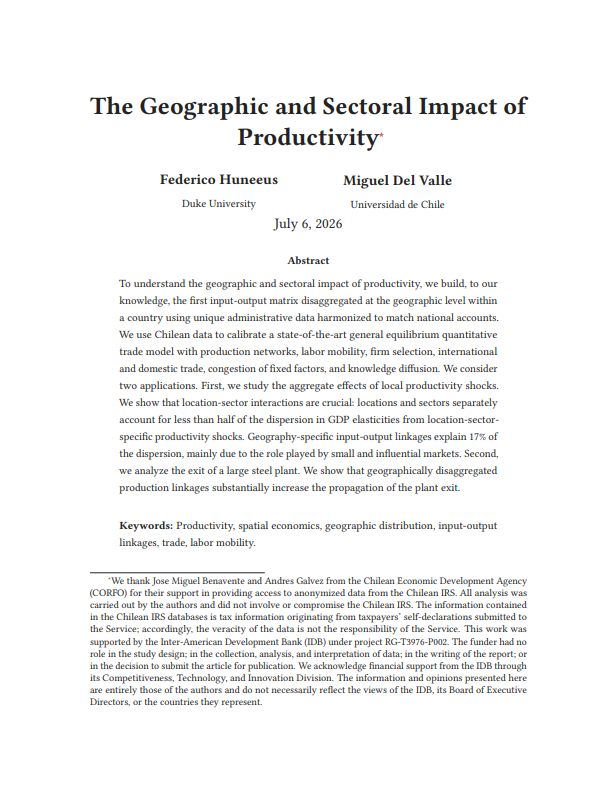
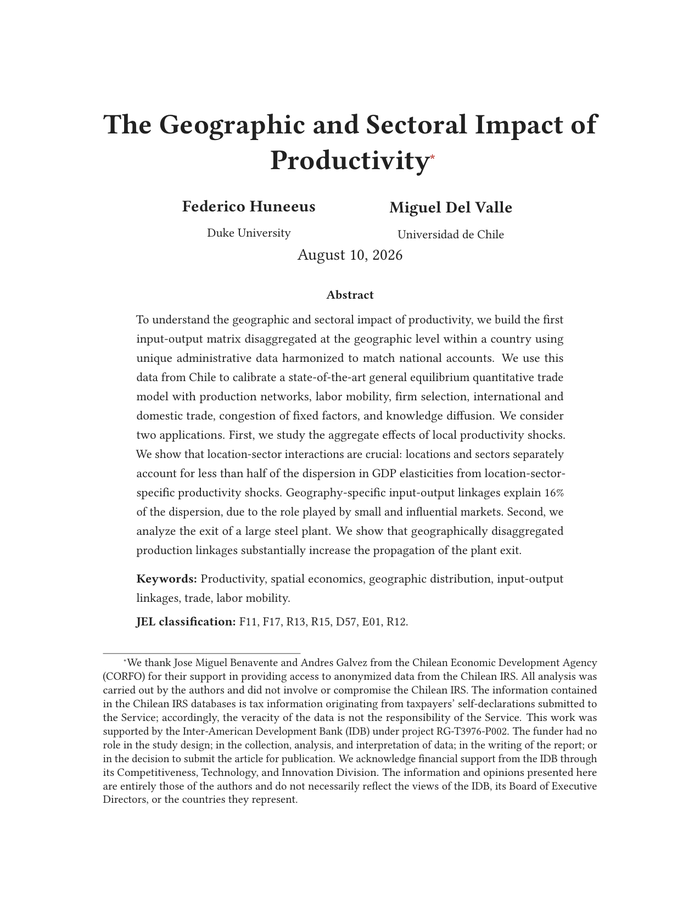
Actualiza portada y abstract del paper (versión 10-ago) y brand del header en Sculpin Bold

Changed region(s): [[0.1236, 0.1212, 0.865, 0.9091]]

diff --git a/sitio.html b/sitio.html
@@ -26,7 +26,9 @@
   /* ---- Header sticky global ---- */
   .site-header{position:sticky;top:0;z-index:50;display:flex;align-items:center;gap:24px;padding:0 44px;height:74px;background:var(--ds-color-brand)}
   .site-header .brand{display:flex;align-items:center}
-  .site-header .brand a{font-weight:800;font-size:.9rem;color:#fff;text-decoration:none;letter-spacing:.04em}
+  /* Brand en Sculpin Bold (la fuente display de los títulos): evita el look "achatado"
+     de DM Sans 800 a tamaño óptico pequeño. */
+  .site-header .brand a{font-family:var(--ds-font-display);font-weight:700;font-size:1rem;color:#fff;text-decoration:none;letter-spacing:.03em}
   .site-nav{margin-left:auto;display:flex;align-items:center;gap:4px}
   .site-nav a{padding:9px 13px;border-radius:6px;font-weight:700;font-size:.92rem;color:rgba(255,255,255,.85);text-decoration:none;transition:background .15s,color .15s}
   .site-nav a:hover{color:#fff;background:rgba(255,255,255,.12)}
@@ -11641,7 +11643,7 @@ function selectionCountLabel(type, level, count) {
       </a>
       <div class="paper-body">
         <p class="paper-abstract-label" data-site-i18n="researchAbstractLabel">Resumen</p>
-        <p class="paper-abstract" data-site-i18n="researchAbstract">Para comprender el impacto geográfico y sectorial de la productividad, construimos, hasta donde sabemos, la primera matriz insumo-producto desagregada geográficamente dentro de un país utilizando datos administrativos únicos armonizados con las cuentas nacionales. Usamos datos de Chile para calibrar un modelo cuantitativo de comercio de equilibrio general de frontera, con redes de producción, movilidad laboral, selección de empresas, comercio internacional y doméstico, congestión de factores fijos y difusión del conocimiento. Consideramos dos aplicaciones. Primero, estudiamos los efectos agregados de shocks locales de productividad. Mostramos que las interacciones ubicación-sector son cruciales: por separado, las ubicaciones y los sectores explican menos de la mitad de la dispersión de las elasticidades del PIB ante shocks de productividad específicos por ubicación-sector. Los encadenamientos insumo-producto específicos de cada geografía explican 17% de esa dispersión, principalmente por el papel de mercados pequeños e influyentes. Segundo, analizamos el cierre de una gran planta siderúrgica. Mostramos que los encadenamientos productivos geográficamente desagregados aumentan sustancialmente la propagación del cierre de la planta.</p>
+        <p class="paper-abstract" data-site-i18n="researchAbstract">Para comprender el impacto geográfico y sectorial de la productividad, construimos la primera matriz insumo-producto desagregada geográficamente dentro de un país utilizando datos administrativos únicos armonizados con las cuentas nacionales. Usamos estos datos de Chile para calibrar un modelo cuantitativo de comercio de equilibrio general de frontera, con redes de producción, movilidad laboral, selección de empresas, comercio internacional y doméstico, congestión de factores fijos y difusión del conocimiento. Consideramos dos aplicaciones. Primero, estudiamos los efectos agregados de shocks locales de productividad. Mostramos que las interacciones ubicación-sector son cruciales: por separado, las ubicaciones y los sectores explican menos de la mitad de la dispersión de las elasticidades del PIB ante shocks de productividad específicos por ubicación-sector. Los encadenamientos insumo-producto específicos de cada geografía explican 16% de esa dispersión, por el papel de mercados pequeños e influyentes. Segundo, analizamos el cierre de una gran planta siderúrgica. Mostramos que los encadenamientos productivos geográficamente desagregados aumentan sustancialmente la propagación del cierre de la planta.</p>
         <p class="paper-keywords"><span class="paper-keywords-label" data-site-i18n="researchKeywordsLabel">Palabras clave</span>&nbsp;&nbsp;<span data-site-i18n="researchKeywords">Productividad, economía espacial, distribución geográfica, encadenamientos insumo-producto, comercio, movilidad laboral.</span></p>
         <div class="paper-actions">
           <a class="paper-btn primary" data-site-i18n="downloadPdf" href="https://www.fedehuneeus.com/s/HdV.pdf" target="_blank" rel="noopener">Descargar PDF</a>
@@ -11780,7 +11782,7 @@ function selectionCountLabel(type, level, count) {
       homeTitle:"Cuentas Económicas Desagregadas para Chile", homeExploreQuestion:"¿Cómo se distribuye la economía por sector y territorio?", homeExploreAction:"Explorar los datos →", homeDataQuestion:"¿Quieres usar los datos para tu propio análisis?", homeDataAction:"Descarga los datos →", homeResearchQuestion:"¿Cómo se construyen y aplican estos datos?", homeResearchAction:"Leer el trabajo →", exploreLandingDesc:"Tres herramientas interactivas para recorrer la economía chilena por sus sectores y sus territorios.",
       dataTitle:"Descarga los Datos", dataIntro:"Un objetivo central del proyecto de colaboración entre la Corporación de Fomento de la Producción (CORFO) y el Banco Interamericano de Desarrollo (BID), desarrollado por Huneeus & Del Valle (2026), es que los datos generados constituyan un bien público, de libre acceso y actualización anual, para la investigación y análisis de las políticas públicas.", dataCoverage:"Los datos se construyen para el año 2022, cubriendo las <strong style=\"color:var(--ds-color-text);font-weight:700\">56 provincias</strong> de Chile y la totalidad de los sectores, divididos en <strong style=\"color:var(--ds-color-text);font-weight:700\">46 sectores</strong>.",
       downloadFormTitle:"Completa tus datos para descargar", fieldFirstName:"Nombre", fieldLastName:"Apellido", fieldInstitutionType:"Tipo de institución", fieldInstitution:"Nombre de la institución", fieldEmail:"Correo electrónico", selectPrompt:"Selecciona una opción", institutionUniversity:"Universidad", institutionGovernment:"Gobierno", institutionCompany:"Empresa", institutionOther:"Otros", fieldDataUse:"Uso de los datos", useResearch:"Investigación", usePublicPolicy:"Políticas públicas", useConsulting:"Consultoría", fieldOtherUse:"Especifica el uso", downloadSubmit:"Descargar", downloadNote:"Usaremos estos datos únicamente para llevar estadísticas de uso y avisarte de actualizaciones importantes. Responsable del tratamiento: CORFO.",
-      citationTitle:"Citación", citationLead:"Para usar estos datos, cita el siguiente trabajo de investigación:", researchTitle:"Trabajo de Investigación", openPdf:"Abrir PDF", workingPaper:"Documento de trabajo", researchAbstractLabel:"Resumen", researchAbstract:"Para comprender el impacto geográfico y sectorial de la productividad, construimos, hasta donde sabemos, la primera matriz insumo-producto desagregada geográficamente dentro de un país utilizando datos administrativos únicos armonizados con las cuentas nacionales. Usamos datos de Chile para calibrar un modelo cuantitativo de comercio de equilibrio general de frontera, con redes de producción, movilidad laboral, selección de empresas, comercio internacional y doméstico, congestión de factores fijos y difusión del conocimiento. Consideramos dos aplicaciones. Primero, estudiamos los efectos agregados de shocks locales de productividad. Mostramos que las interacciones ubicación-sector son cruciales: por separado, las ubicaciones y los sectores explican menos de la mitad de la dispersión de las elasticidades del PIB ante shocks de productividad específicos por ubicación-sector. Los encadenamientos insumo-producto específicos de cada geografía explican 17% de esa dispersión, principalmente por el papel de mercados pequeños e influyentes. Segundo, analizamos el cierre de una gran planta siderúrgica. Mostramos que los encadenamientos productivos geográficamente desagregados aumentan sustancialmente la propagación del cierre de la planta.", researchKeywordsLabel:"Palabras clave", researchKeywords:"Productividad, economía espacial, distribución geográfica, encadenamientos insumo-producto, comercio, movilidad laboral.", downloadPdf:"Descargar PDF", howToCite:"Cómo citar", teamTitle:"Equipo de Investigación", teamRoleSenior:"Economista senior", teamRoleAssistant:"Asistente de investigación",
+      citationTitle:"Citación", citationLead:"Para usar estos datos, cita el siguiente trabajo de investigación:", researchTitle:"Trabajo de Investigación", openPdf:"Abrir PDF", workingPaper:"Documento de trabajo", researchAbstractLabel:"Resumen", researchAbstract:"Para comprender el impacto geográfico y sectorial de la productividad, construimos la primera matriz insumo-producto desagregada geográficamente dentro de un país utilizando datos administrativos únicos armonizados con las cuentas nacionales. Usamos estos datos de Chile para calibrar un modelo cuantitativo de comercio de equilibrio general de frontera, con redes de producción, movilidad laboral, selección de empresas, comercio internacional y doméstico, congestión de factores fijos y difusión del conocimiento. Consideramos dos aplicaciones. Primero, estudiamos los efectos agregados de shocks locales de productividad. Mostramos que las interacciones ubicación-sector son cruciales: por separado, las ubicaciones y los sectores explican menos de la mitad de la dispersión de las elasticidades del PIB ante shocks de productividad específicos por ubicación-sector. Los encadenamientos insumo-producto específicos de cada geografía explican 16% de esa dispersión, por el papel de mercados pequeños e influyentes. Segundo, analizamos el cierre de una gran planta siderúrgica. Mostramos que los encadenamientos productivos geográficamente desagregados aumentan sustancialmente la propagación del cierre de la planta.", researchKeywordsLabel:"Palabras clave", researchKeywords:"Productividad, economía espacial, distribución geográfica, encadenamientos insumo-producto, comercio, movilidad laboral.", downloadPdf:"Descargar PDF", howToCite:"Cómo citar", teamTitle:"Equipo de Investigación", teamRoleSenior:"Economista senior", teamRoleAssistant:"Asistente de investigación",
       contactTitle:"Contacto", contactLead:"Escríbenos para consultas sobre los datos, las visualizaciones o el trabajo de investigación.", contactFormTitle:"Cuéntanos cómo podemos ayudarte", fieldContactReason:"Motivo del contacto", reasonData:"Datos", reasonVisualization:"Visualización", reasonResearch:"Trabajo de Investigación", fieldOtherReason:"Especifica el motivo", fieldMessage:"Mensaje", contactSubmit:"Enviar consulta", contactNote:"Usaremos tu información únicamente para responder esta consulta. Responsable del tratamiento: CORFO.", otherEffortsTitle:"Otros Esfuerzos", otherEffortsLead:"Este trabajo se enmarca en un esfuerzo mundial por construir y medir cuentas económicas desagregadas. Entre otras iniciativas, puedes conocer:", otherEffortsColInitiative:"Iniciativa", otherEffortsColCountry:"País", otherEffortsColSource:"Fuente", otherEffortsCountryDenmark:"Dinamarca", otherEffortsCountryMulti:"Multi-País", otherEffortsDisaggregated:"Cuentas Económicas Desagregadas de Dinamarca", otherEffortsOecd:"Tablas de Insumo-Producto Interpaíses",
       ackTitle:"Agradecimientos", ackText:"Agradecemos a la Corporación de Fomento de la Producción (CORFO) por impulsar esta iniciativa. Agradecemos también al Servicio de Impuestos Internos (SII) por facilitar el acceso a datos administrativos anonimizados. La información aquí contenida es de carácter tributario proveniente de autodeclaraciones de los contribuyentes presentadas ante el SII; por lo que la veracidad de dichos datos no es responsabilidad del Servicio. Este trabajo contó con el apoyo del Banco Interamericano de Desarrollo (BID) en el marco del proyecto RG-T3976-P002, a través de su División de Competitividad, Tecnología e Innovación. El financiador no tuvo rol en el diseño del estudio, ni en la recolección, análisis, interpretación de los datos, redacción o decisión de publicar.", footerCopyright:"© Cuentas Económicas Desagregadas para Chile · CORFO–BID, 2026."
     },
@@ -11789,7 +11791,7 @@ function selectionCountLabel(type, level, count) {
       homeTitle:"Disaggregated Economic Accounts for Chile", homeExploreQuestion:"How is the economy distributed across sectors and territories?", homeExploreAction:"Explore the data →", homeDataQuestion:"Do you want to use the data for your own analysis?", homeDataAction:"Download the data →", homeResearchQuestion:"How are these data constructed and applied?", homeResearchAction:"Read the paper →", exploreLandingDesc:"Three interactive tools to explore the Chilean economy across its sectors and territories.",
       dataTitle:"Download Data", dataIntro:"A central objective of the collaboration project between the Production Development Corporation (CORFO) and the Inter-American Development Bank (IDB), developed by Huneeus & Del Valle (2026), is that the generated data constitute a public good, freely accessible and updated annually for research and public-policy analysis.", dataCoverage:"The data cover 2022 and include <strong style=\"color:var(--ds-color-text);font-weight:700\">56 provinces</strong> in Chile and all productive activity, disaggregated into <strong style=\"color:var(--ds-color-text);font-weight:700\">46 sectors</strong>.",
       downloadFormTitle:"Complete your information to download", fieldFirstName:"First name", fieldLastName:"Last name", fieldInstitutionType:"Institution type", fieldInstitution:"Institution name", fieldEmail:"Email address", selectPrompt:"Select an option", institutionUniversity:"University", institutionGovernment:"Government", institutionCompany:"Company", institutionOther:"Other", fieldDataUse:"Intended use of the data", useResearch:"Research", usePublicPolicy:"Public policy", useConsulting:"Consulting", fieldOtherUse:"Specify the intended use", downloadSubmit:"Download", downloadNote:"We use this information only to keep usage statistics and notify you about important updates. Data controller: CORFO.",
-      citationTitle:"Citation", citationLead:"To use these data, cite the following research paper:", researchTitle:"Research Paper", openPdf:"Open PDF", workingPaper:"Working paper", researchAbstractLabel:"Abstract", researchAbstract:"To understand the geographic and sectoral impact of productivity, we build, to our knowledge, the first input-output matrix disaggregated at the geographic level within a country using unique administrative data harmonized to match national accounts. We use Chilean data to calibrate a state-of-the-art general equilibrium quantitative trade model with production networks, labor mobility, firm selection, international and domestic trade, congestion of fixed factors, and knowledge diffusion. We consider two applications. First, we study the aggregate effects of local productivity shocks. We show that location-sector interactions are crucial: locations and sectors separately account for less than half of the dispersion in GDP elasticities from location-sector-specific productivity shocks. Geography-specific input-output linkages explain 17% of the dispersion, mainly due to the role played by small and influential markets. Second, we analyze the exit of a large steel plant. We show that geographically disaggregated production linkages substantially increase the propagation of the plant exit.", researchKeywordsLabel:"Keywords", researchKeywords:"Productivity, spatial economics, geographic distribution, input-output linkages, trade, labor mobility.", downloadPdf:"Download PDF", howToCite:"How to cite", teamTitle:"Research Team", teamRoleSenior:"Senior Economist", teamRoleAssistant:"Research Assistant",
+      citationTitle:"Citation", citationLead:"To use these data, cite the following research paper:", researchTitle:"Research Paper", openPdf:"Open PDF", workingPaper:"Working paper", researchAbstractLabel:"Abstract", researchAbstract:"To understand the geographic and sectoral impact of productivity, we build the first input-output matrix disaggregated at the geographic level within a country using unique administrative data harmonized to match national accounts. We use this data from Chile to calibrate a state-of-the-art general equilibrium quantitative trade model with production networks, labor mobility, firm selection, international and domestic trade, congestion of fixed factors, and knowledge diffusion. We consider two applications. First, we study the aggregate effects of local productivity shocks. We show that location-sector interactions are crucial: locations and sectors separately account for less than half of the dispersion in GDP elasticities from location-sector-specific productivity shocks. Geography-specific input-output linkages explain 16% of the dispersion, due to the role played by small and influential markets. Second, we analyze the exit of a large steel plant. We show that geographically disaggregated production linkages substantially increase the propagation of the plant exit.", researchKeywordsLabel:"Keywords", researchKeywords:"Productivity, spatial economics, geographic distribution, input-output linkages, trade, labor mobility.", downloadPdf:"Download PDF", howToCite:"How to cite", teamTitle:"Research Team", teamRoleSenior:"Senior Economist", teamRoleAssistant:"Research Assistant",
       contactTitle:"Contact", contactLead:"Write to us with questions about the data, visualizations, or research paper.", contactFormTitle:"Tell us how we can help", fieldContactReason:"Reason for contact", reasonData:"Data", reasonVisualization:"Visualization", reasonResearch:"Research Paper", fieldOtherReason:"Specify the reason", fieldMessage:"Message", contactSubmit:"Send inquiry", contactNote:"We use this information only to respond to your inquiry. Data controller: CORFO.", otherEffortsTitle:"Related Efforts", otherEffortsLead:"This work is part of a global effort to build and measure disaggregated economic accounts. Other initiatives include:", otherEffortsColInitiative:"Initiative", otherEffortsColCountry:"Country", otherEffortsColSource:"Source", otherEffortsCountryDenmark:"Denmark", otherEffortsCountryMulti:"Multi-country", otherEffortsDisaggregated:"Disaggregated Accounts for Denmark", otherEffortsOecd:"Inter-Country Input-Output Tables",
       ackTitle:"Acknowledgements", ackText:"We thank the Production Development Corporation (CORFO) for promoting this initiative. We also thank the Chilean Internal Revenue Service (SII) for facilitating access to anonymized administrative data. The information contained herein is tax information obtained from taxpayers' self-reported declarations submitted to the SII; therefore, the accuracy of these data is not the responsibility of the Service. This work received support from the Inter-American Development Bank (IDB) under project RG-T3976-P002 through its Competitiveness, Technology and Innovation Division. The funder had no role in the study design, data collection, analysis, interpretation, writing, or decision to publish.", footerCopyright:"© Disaggregated Economic Accounts for Chile · CORFO–IDB, 2026."
     }
